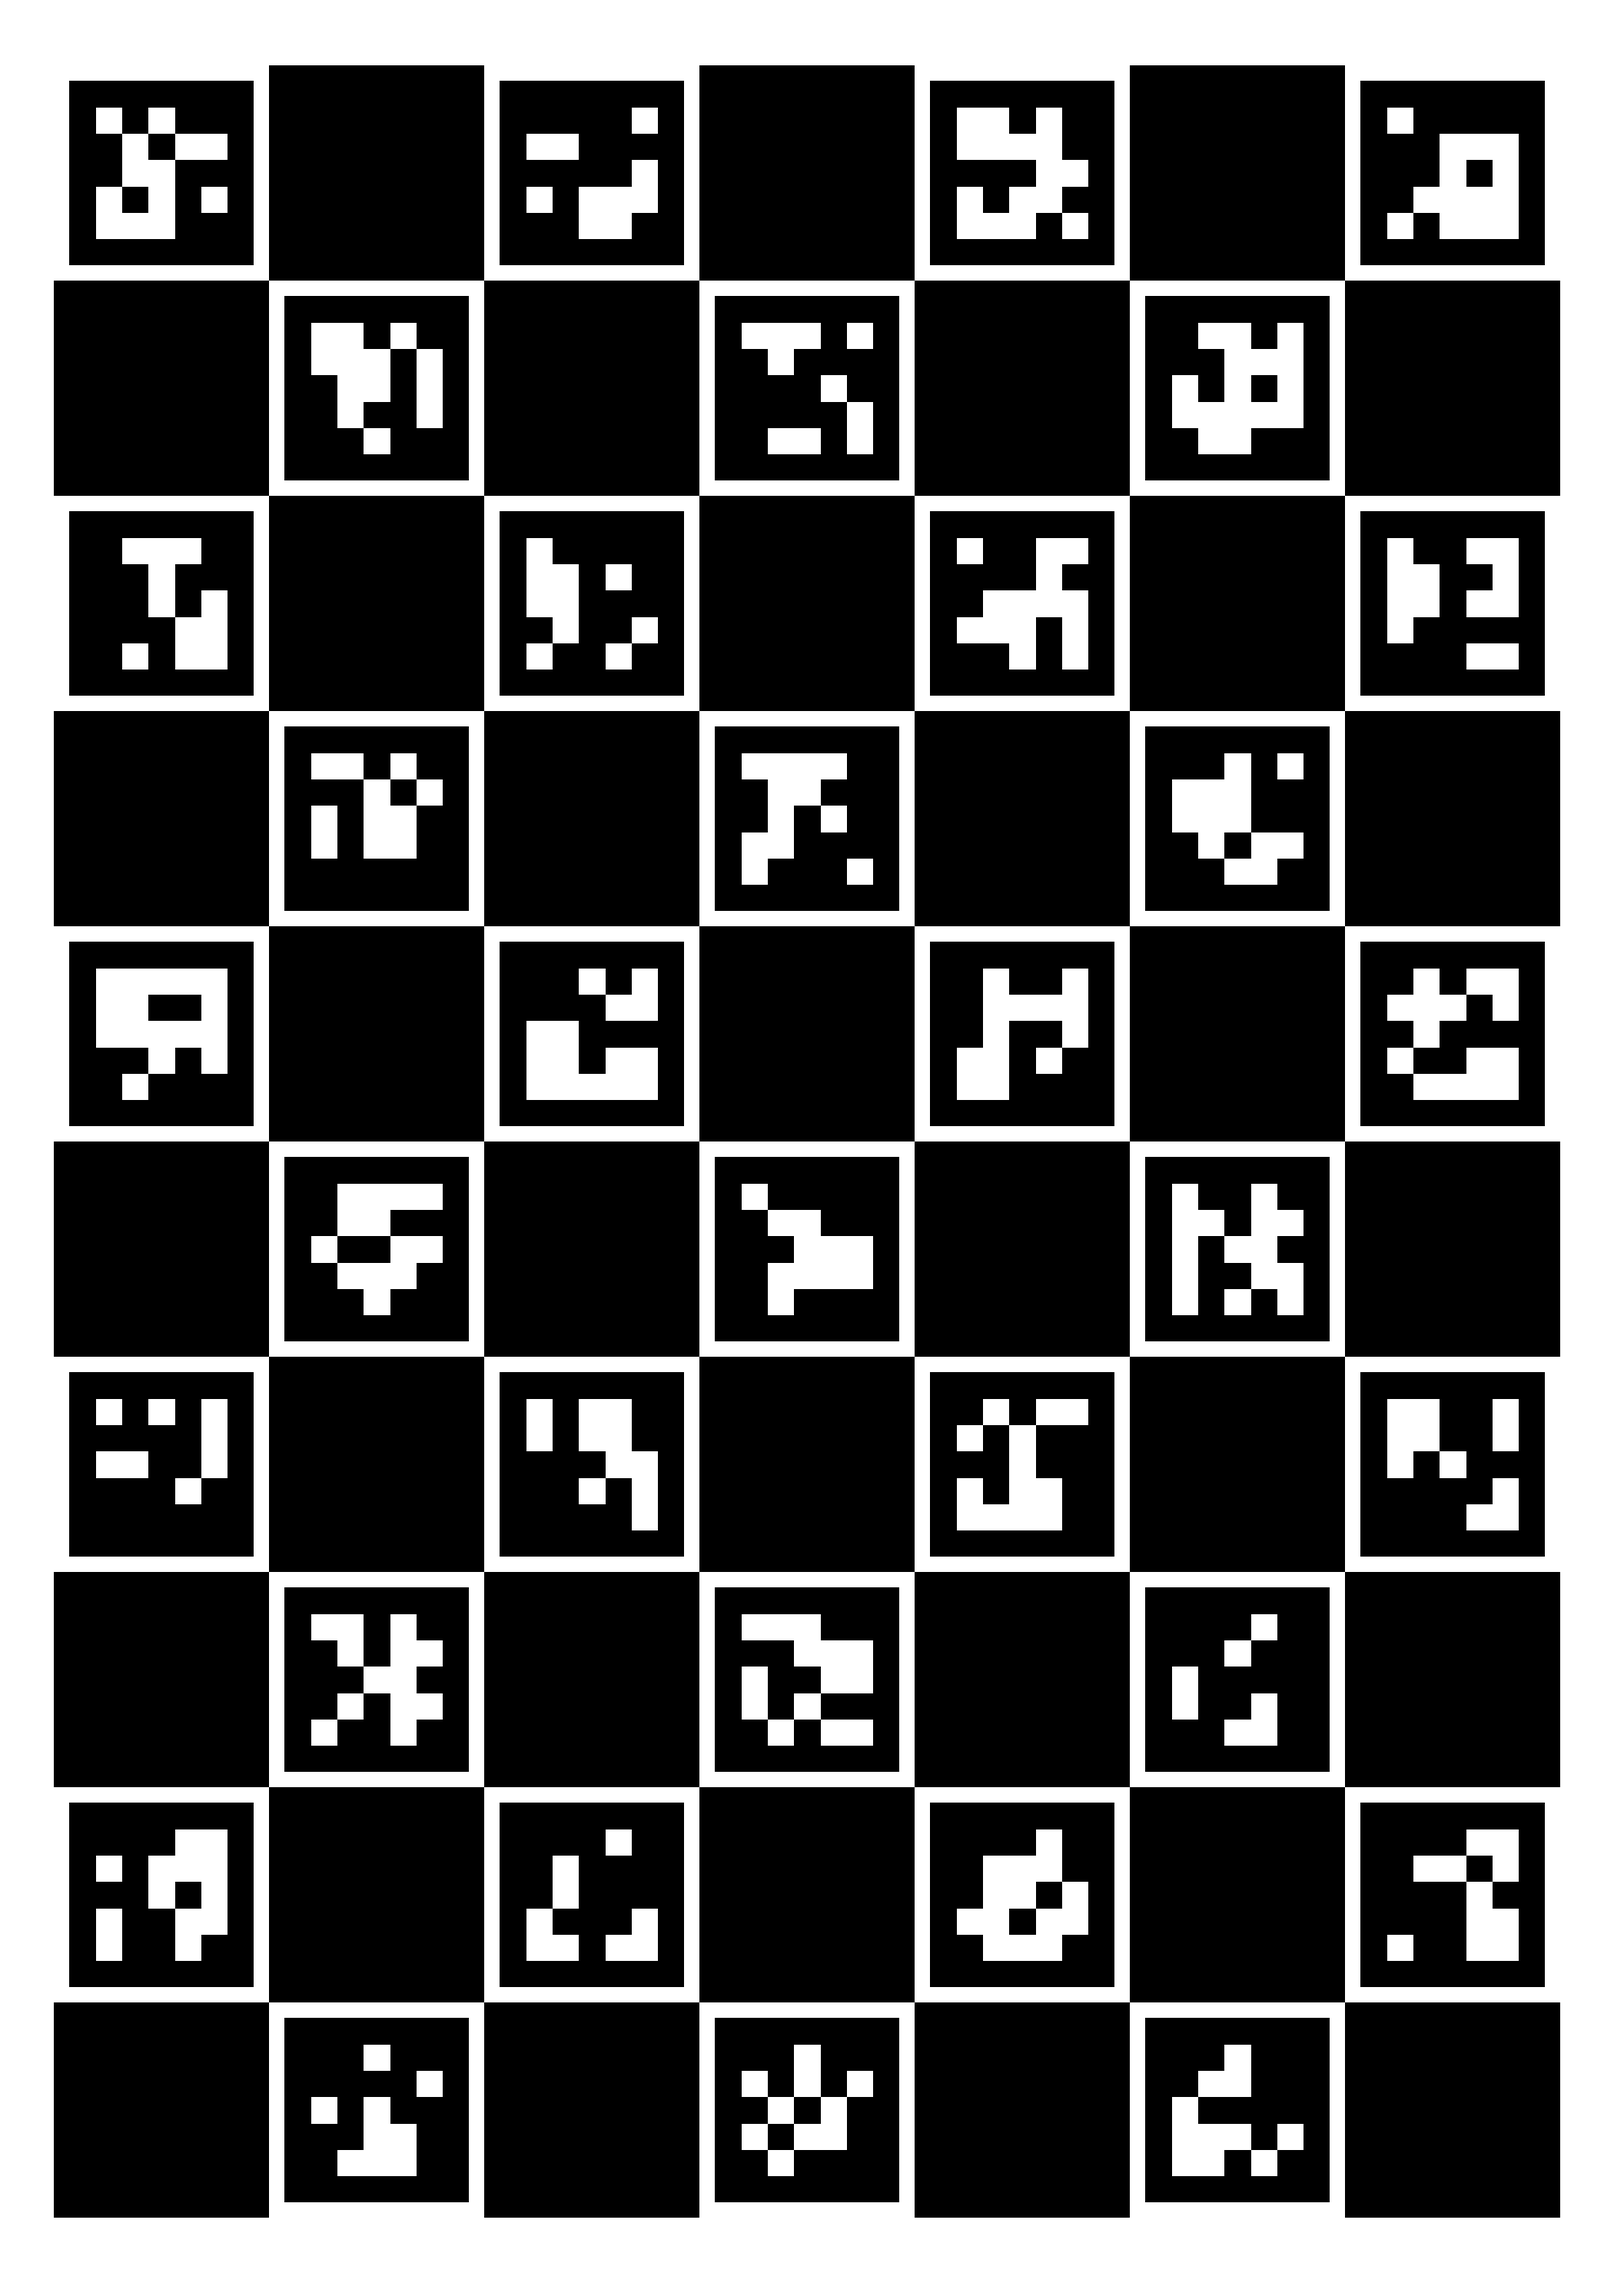
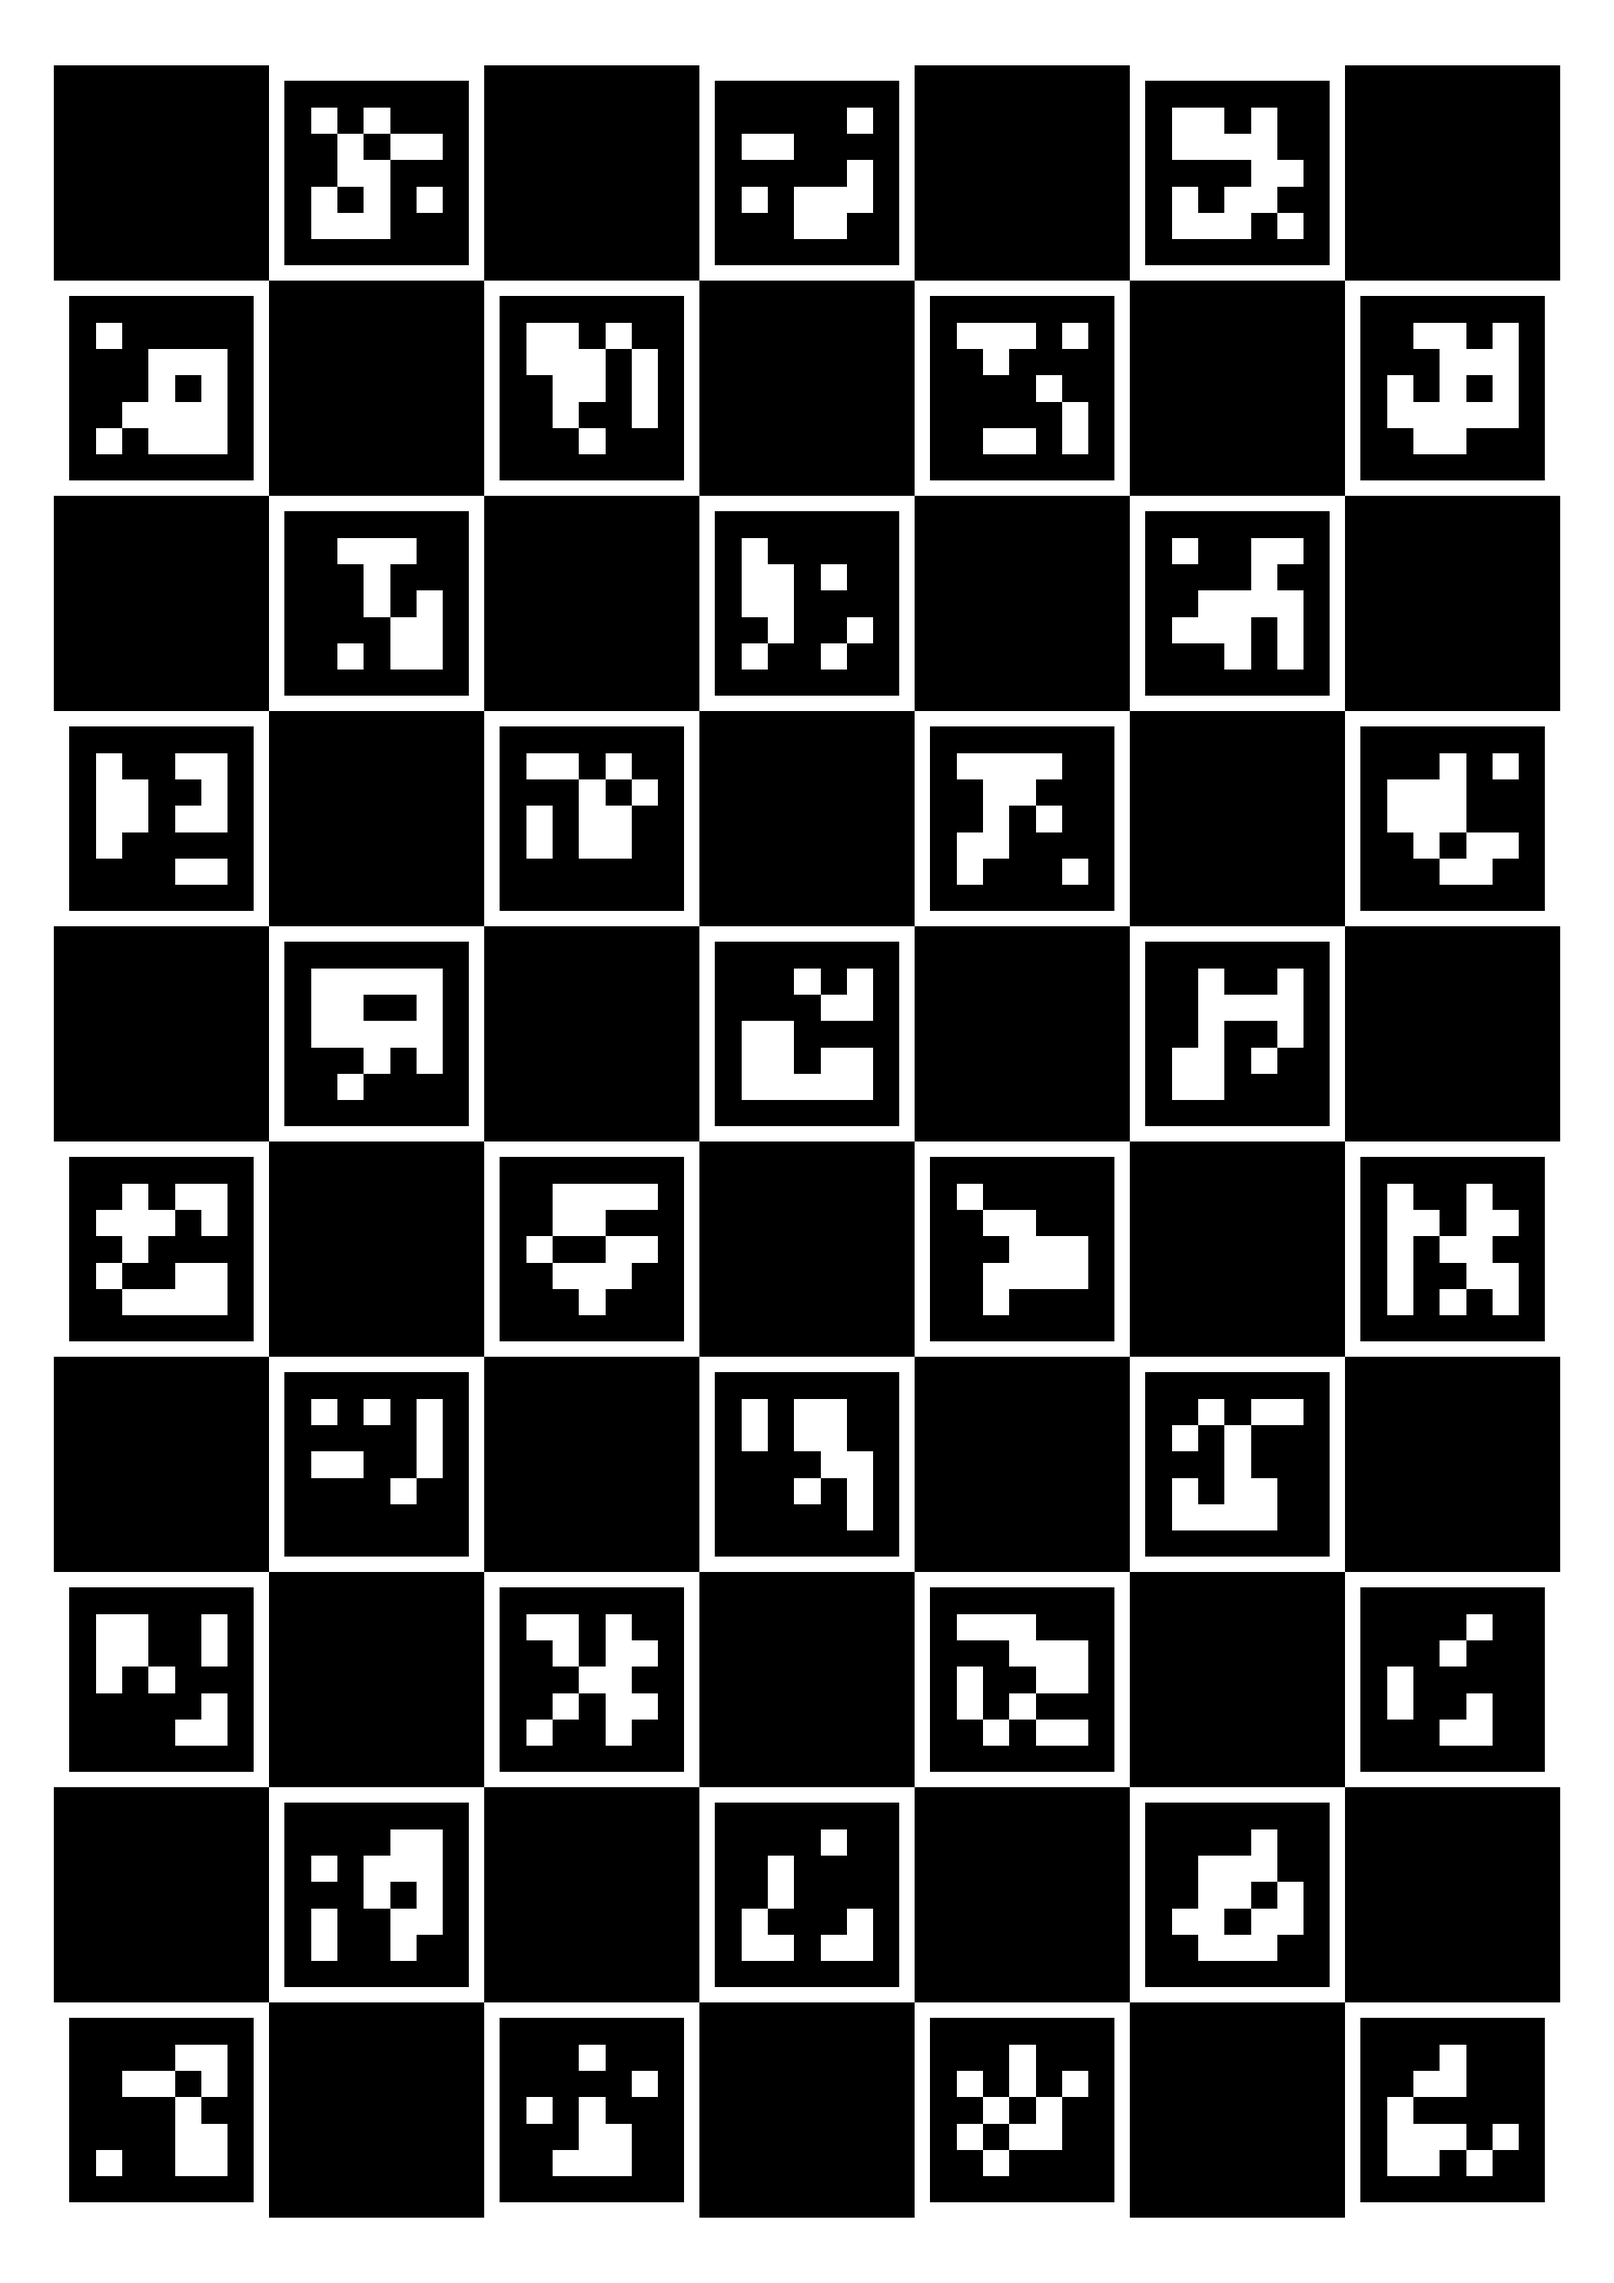
enabled board_creation.py

diff --git a/src/utils.py b/src/utils.py
@@ -185,9 +185,8 @@ def get_A4_board(dictionary,
     lr_pixels = A4size[0]*pixels_per_mm - boardPixX
 
     # create board image
-    board = aruco.CharucoBoard_create(
-        squareNumX,
-        squareNumY,
+    board = aruco.CharucoBoard(
+        (squareNumX, squareNumY),
         squareL,
         markerL,
         dictionary)
@@ -195,7 +194,7 @@ def get_A4_board(dictionary,
     # third parameter is the (optional) margin in pixels
     # if it is set as 0, none of the markers are touching the image border
     # the last parameter is the size of the marker border
-    boardImage = board.draw((boardPixX, boardPixY), None, 0, 1)
+    boardImage = board.generateImage((boardPixX, boardPixY), None, 0, 1)
     # add the margin to the image
     boardImage_margin = np.asarray(
         add_margin(Image.fromarray(boardImage), tb_pixels, lr_pixels))
